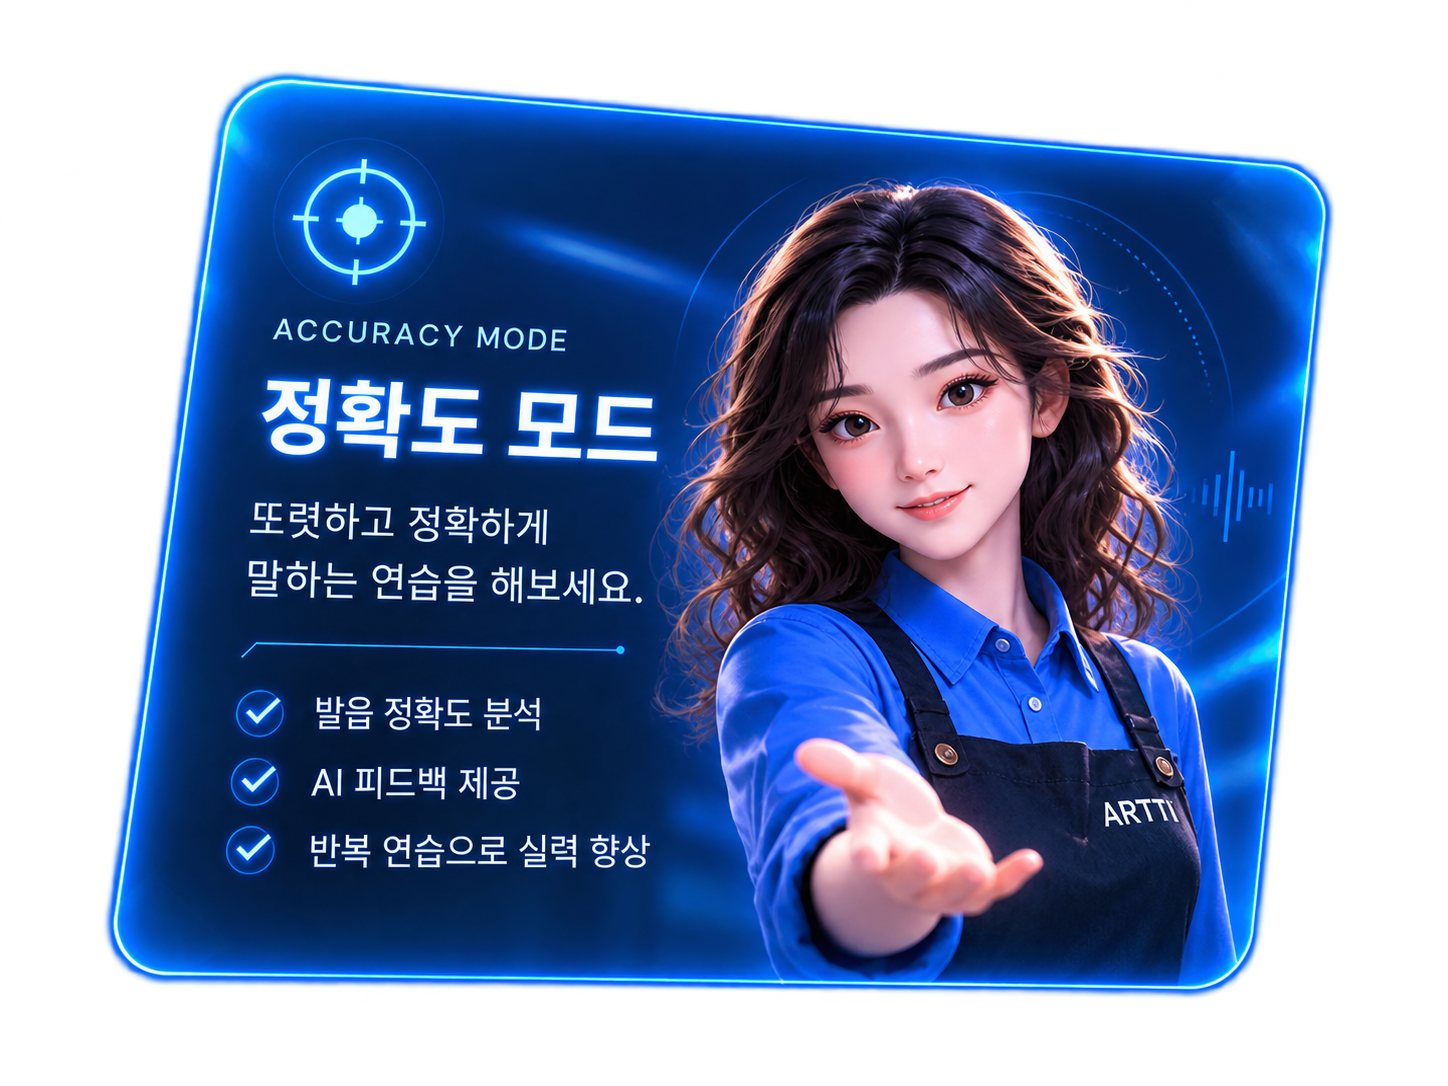
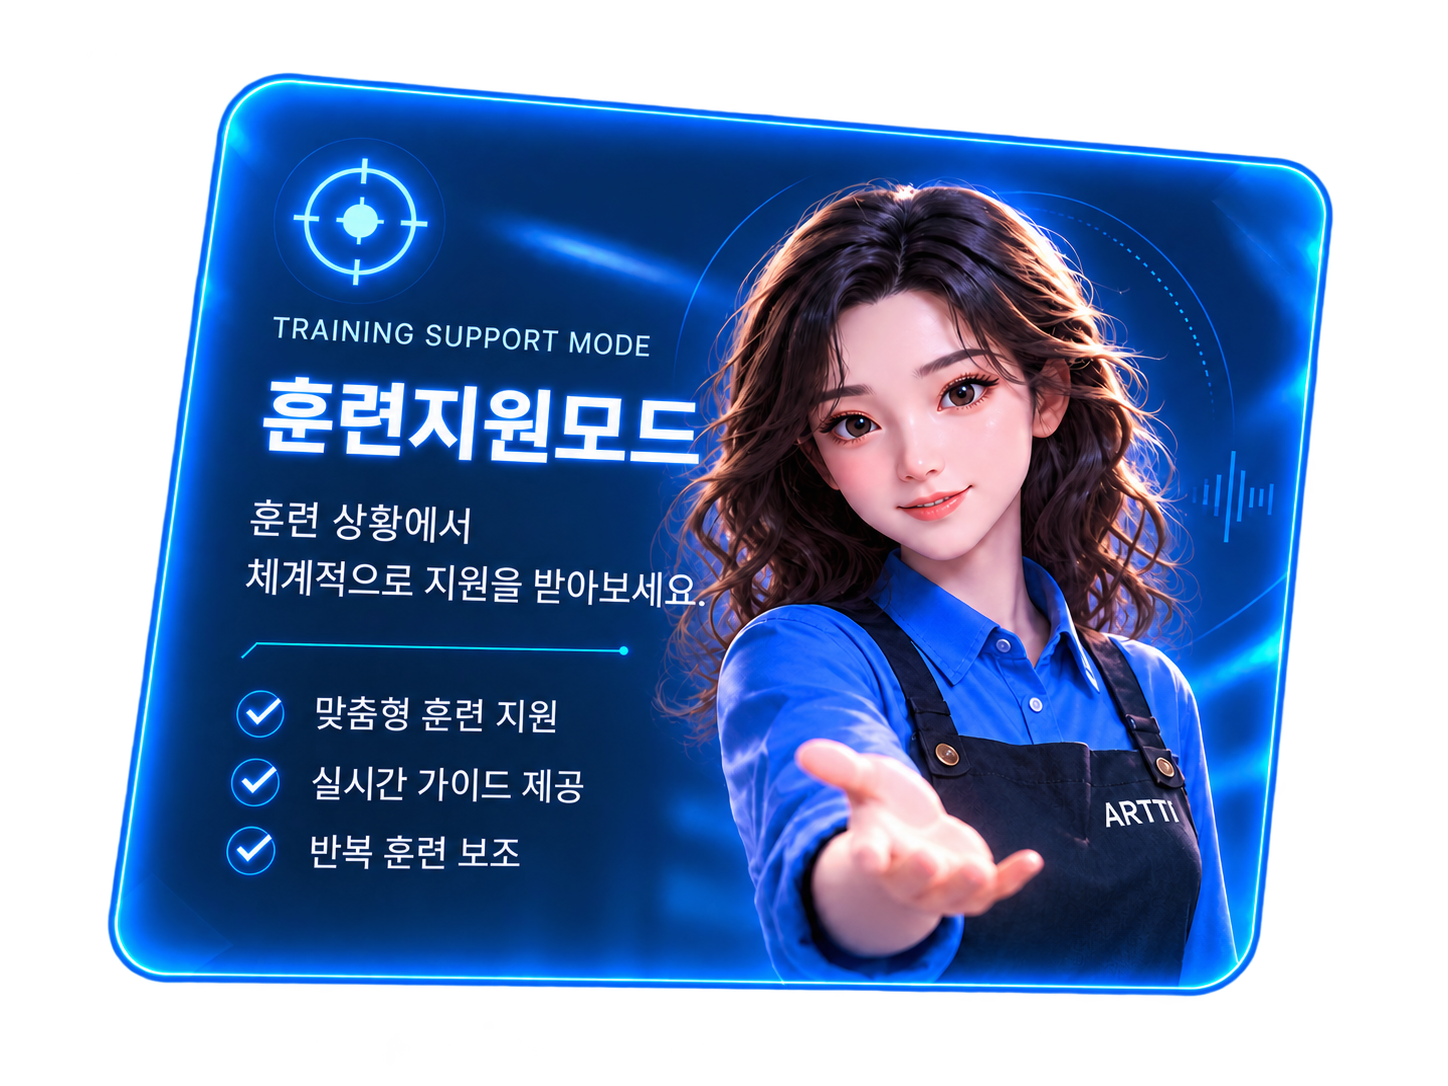
feat: 말하기 훈련 모드 카드 그림을 58/59로 정리
- 새 시안(훈련지원모드 58, 현장지원모드 59)을 58.png/59.png 이름에 넣고 중복 "58 1"/"59 1" 삭제.
- 58/59의 기존 .meta(GUID)를 유지하고 씬 카드 스프라이트 참조와 빌더 경로를 58/59로 맞춤.
  그림·크기·가져오기 설정은 이전 "58 1"/"59 1"과 같아 화면 배치는 그대로.

diff --git a/Assets/_Project/Editor/TrainingHubSceneBuilder.cs b/Assets/_Project/Editor/TrainingHubSceneBuilder.cs
@@ -12,8 +12,8 @@ namespace Artti.Editor
     // 에셋: Art/UI/TrainingHub/
     //   56 배경(1672x941, 매장 / 왼쪽 문구 "작은 변화가 더 나은 내일을 만들어요." / 오른쪽 위 ARTTI 간판 / 왼쪽 위 뒤로 버튼이 그려져 있음)
     //   57 제목 "말하기 훈련 / 오늘은 어떤 연습을 해볼까요?"
-    //   "58 1" 정확도 모드 카드(여자 캐릭터, 그림 글자 "훈련지원모드")   "59 1" 대화 모드 카드(남자 캐릭터, 그림 글자 "현장지원모드")
-    //   (2026-10-03 새 시안으로 교체. 처음 시안 58/59는 폴더에 남겨 둠)
+    //   58 정확도 모드 카드(여자 캐릭터, 그림 글자 "훈련지원모드")   59 대화 모드 카드(남자 캐릭터, 그림 글자 "현장지원모드")
+    //   (2026-10-03 새 시안 "58 1"/"59 1"로 교체 -> 2026-10-05 사용자 요청으로 새 시안을 58/59 이름에 넣고 "58 1"/"59 1"은 지움)
     //   60 연습하기(파랑, 정확도)   61 연습하기(보라, 대화)   tip_bulb 안내 바 전구(코드로 그린 안내 바에 씀)
     // 좌표는 시안(1672x941)을 1920 폭으로 환산(x1.1483)한 값. 카드는 56 왼쪽 문구(Stage x ~505, y 258~597)를 피해 오른쪽에 두고,
     // 태블릿(16:10)에서 좌우가 44씩 잘려도 오른쪽 카드 끝이 남는 크기(0.50배)로 정했다.
@@ -34,8 +34,8 @@ namespace Artti.Editor
         static readonly Vector2 TitleCenter = new Vector2(1172f, -164f);
         const float TitleWidth = 400f;
 
-        // 카드("58 1"/"59 1", 1448x1086) 0.50배. 위치 = 이미지 좌상단. 두 카드는 같은 높이.
-        // 본체(알파>200): "59 1" x 20~1437 y 82~1022, "58 1" x 109~1331 y 74~994. "59 1"이 더 넓게 그려져 있어
+        // 카드(58/59, 1448x1086) 0.50배. 위치 = 이미지 좌상단. 두 카드는 같은 높이.
+        // 본체(알파>200): 59 x 20~1437 y 82~1022, 58 x 109~1331 y 74~994. 59가 더 넓게 그려져 있어
         // 0.52배로는 오른쪽 카드가 태블릿에서 잘린다. 두 카드 사이 틈은 가장 좁은 곳(카드 아래쪽) 25.
         const float CardImgW = 1448f, CardImgH = 1086f, CardScale = 0.50f;
         static readonly Vector2 ConversationCardPos = new Vector2(505f, -218f);
@@ -95,10 +95,10 @@ namespace Artti.Editor
                 (TitleBody.center.y - TitleImgH / 2f) * ts);
             AddImage(title, HubDir + "57.png");
 
-            // ===== 모드 카드 2장: 좌 = 대화 모드("59 1" + 61), 우 = 정확도 모드("58 1" + 60) =====
-            var conversationBtn = BuildModeCard(stage, "ConversationModeCard", HubDir + "59 1.png", ConversationCardPos, ConversationCardHit,
+            // ===== 모드 카드 2장: 좌 = 대화 모드(59 + 61), 우 = 정확도 모드(58 + 60) =====
+            var conversationBtn = BuildModeCard(stage, "ConversationModeCard", HubDir + "59.png", ConversationCardPos, ConversationCardHit,
                 HubDir + "61.png", PurplePillBody, ConversationPillCenter);
-            var accuracyBtn = BuildModeCard(stage, "AccuracyModeCard", HubDir + "58 1.png", AccuracyCardPos, AccuracyCardHit,
+            var accuracyBtn = BuildModeCard(stage, "AccuracyModeCard", HubDir + "58.png", AccuracyCardPos, AccuracyCardHit,
                 HubDir + "60.png", BluePillBody, AccuracyPillCenter);
 
             BuildTipBar(stage, font);
@@ -111,7 +111,7 @@ namespace Artti.Editor
 
             SceneBuilderUtils.ForceRebuildCanvasLayouts(canvasGo);
             SceneBuilderUtils.SaveActiveScene();
-            Debug.Log("[TrainingHubSceneBuilder] 완료 (배경 56 꽉 채움 + 제목 57 + 모드 카드 좌 대화(59 1) / 우 정확도(58 1) + 연습하기 61/60 + 안내 바)");
+            Debug.Log("[TrainingHubSceneBuilder] 완료 (배경 56 꽉 채움 + 제목 57 + 모드 카드 좌 대화(59) / 우 정확도(58) + 연습하기 61/60 + 안내 바)");
         }
 
         // 배경(56): 화면을 빈틈 없이 꽉 채운다. 왼쪽 문구와 뒤로 버튼이 가장자리 가까이 그려져 있어
